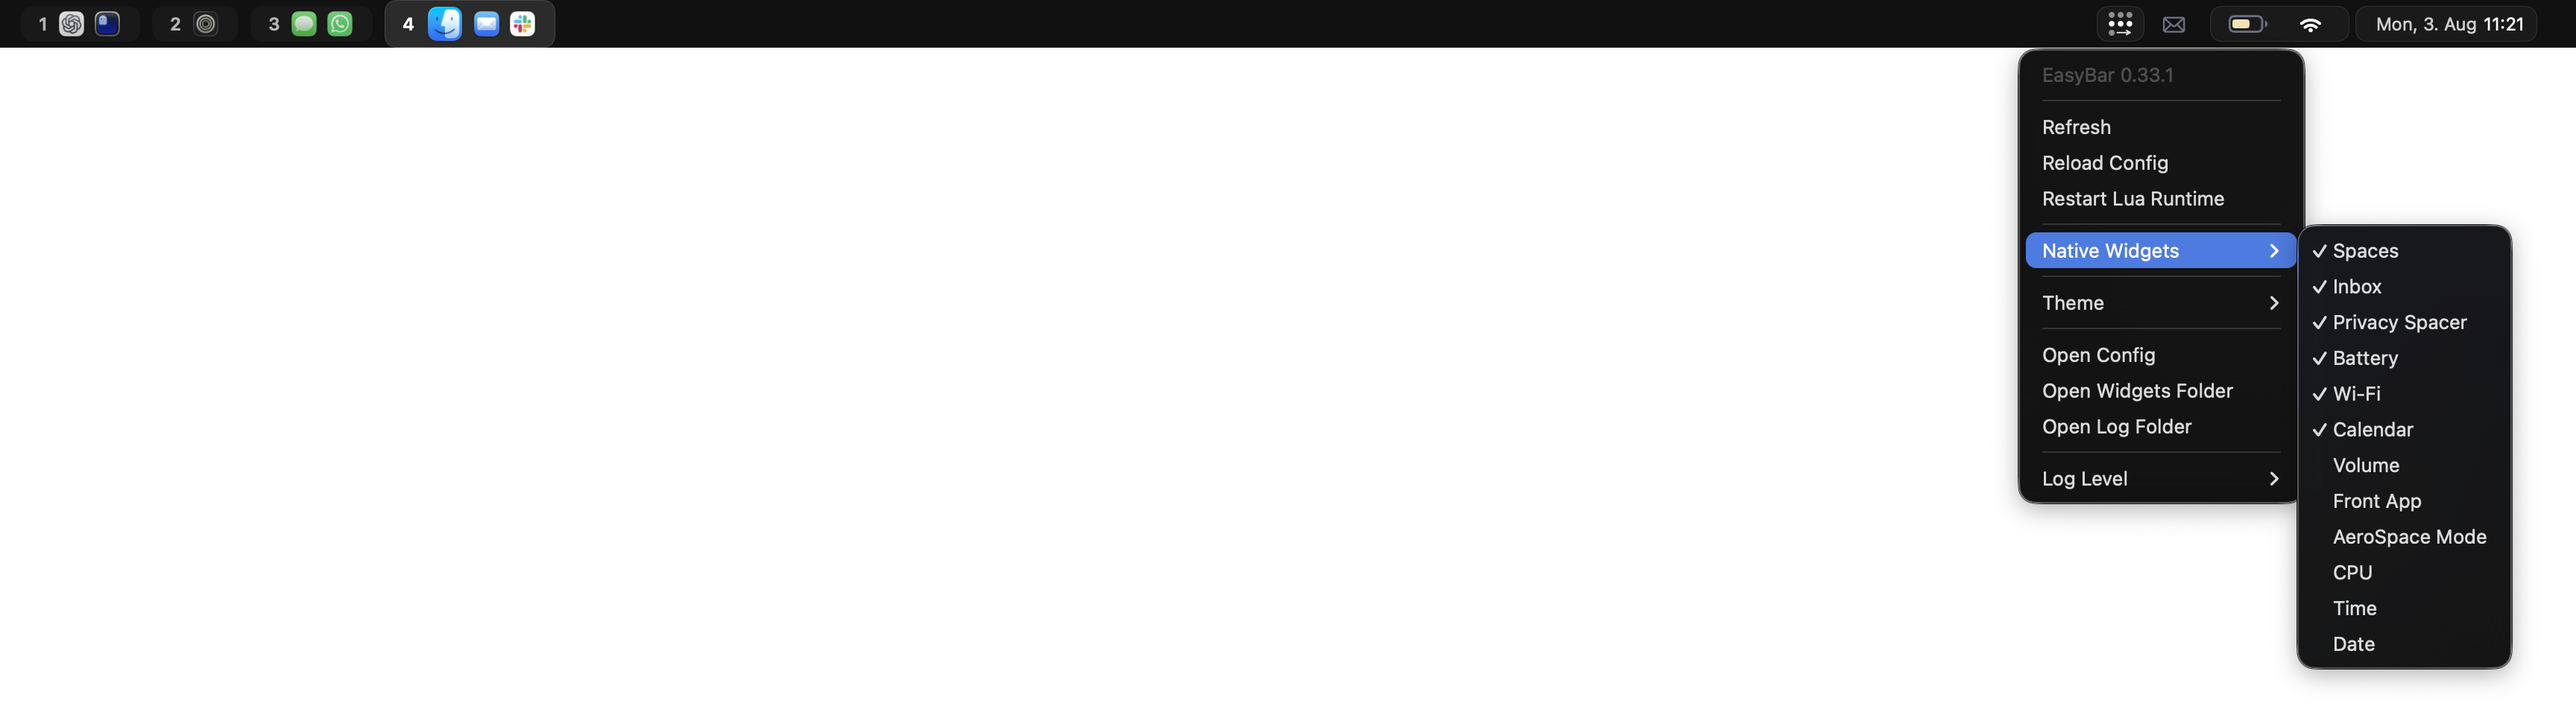
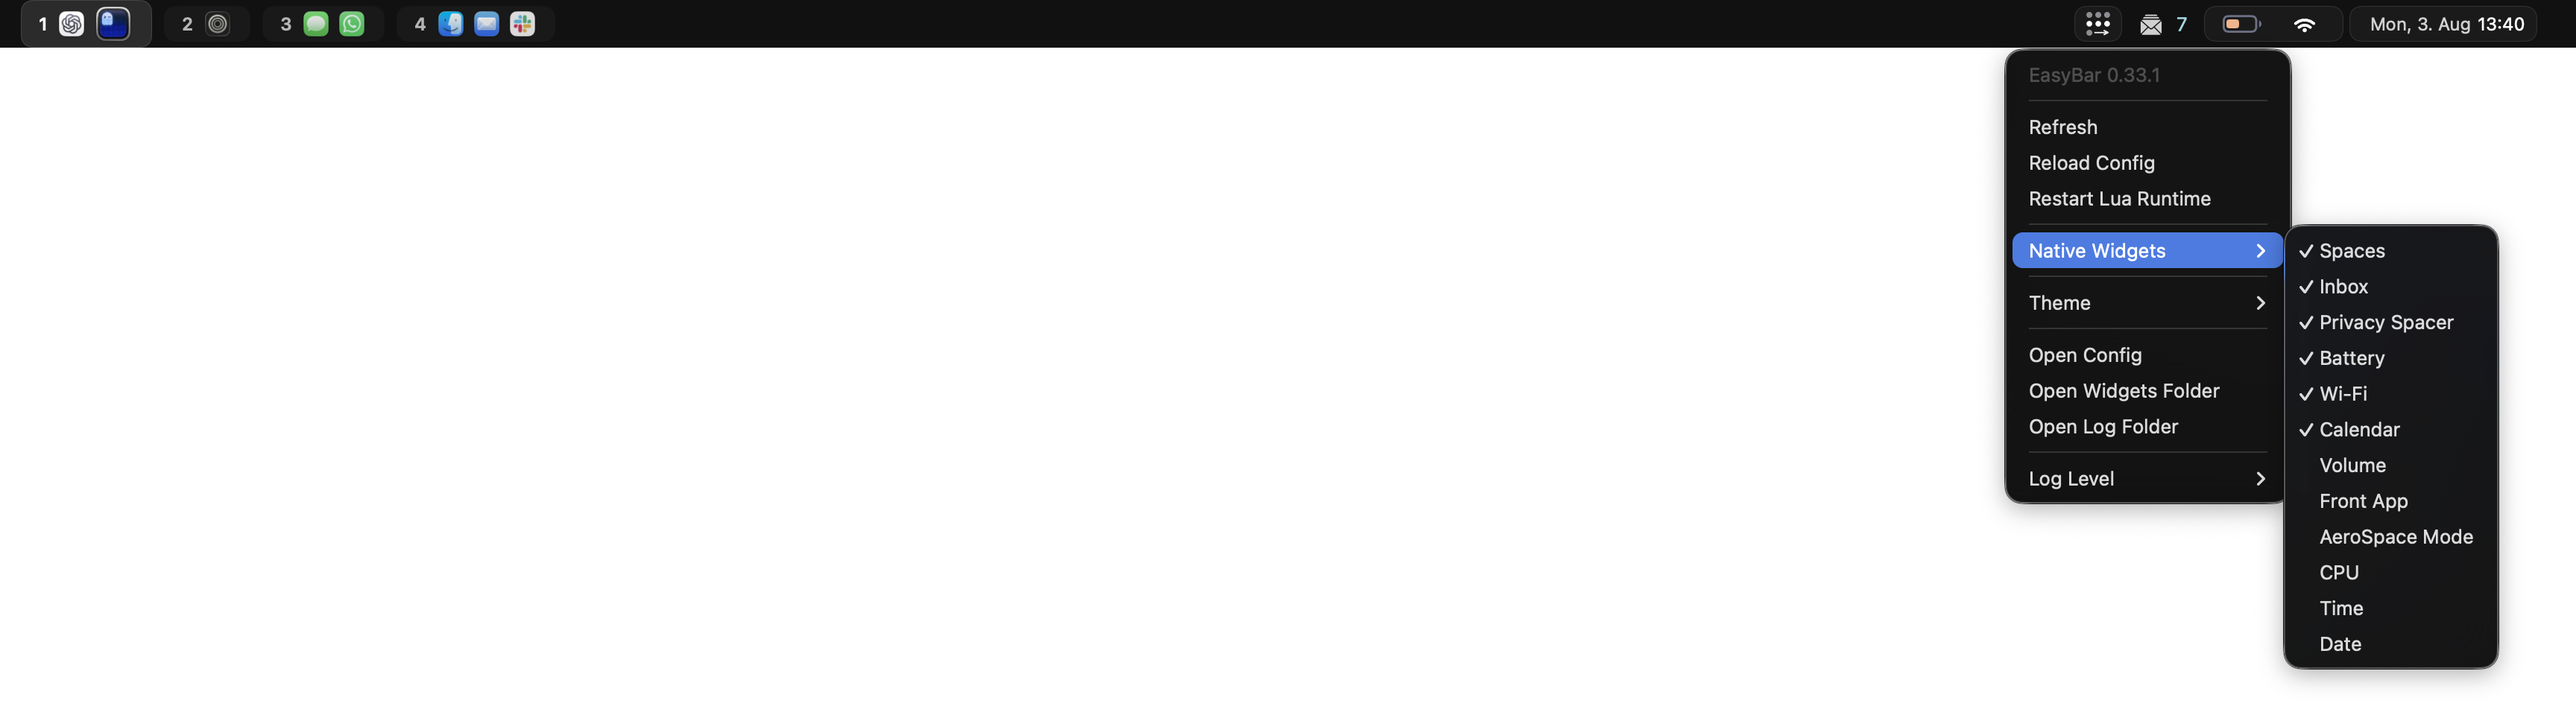
docs: update native widget screenshots

Changed region(s): [[0.75, 0.0, 1.0, 0.9443], [0.0, 0.0, 0.2188, 0.0914]]

diff --git a/docs/content/stylesheets/extra.css b/docs/content/stylesheets/extra.css
@@ -163,7 +163,7 @@
   --screenshot-width: 322px;
 }
 .md-typeset img.screenshot-native-widgets {
-  --screenshot-width: 582px;
+  --screenshot-width: 385px;
 }
 .md-typeset img.screenshot-context {
   --screenshot-width: 422px;
